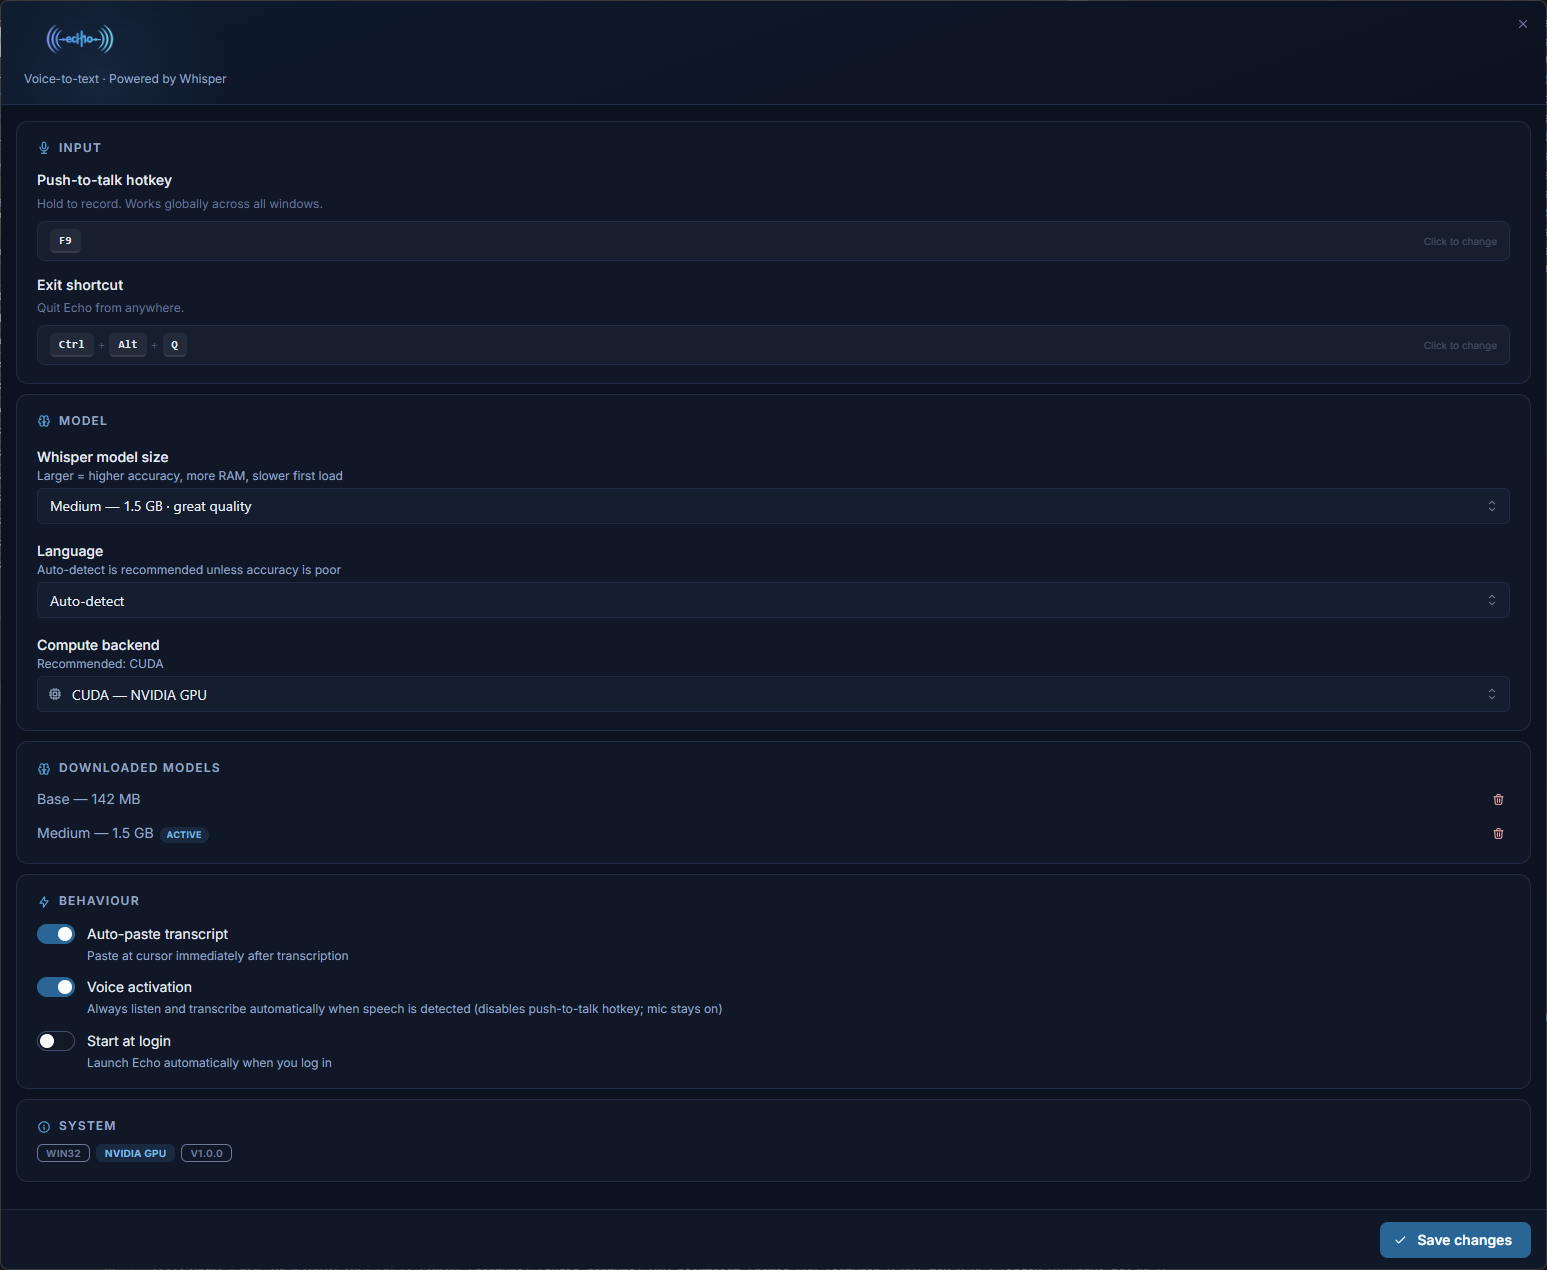
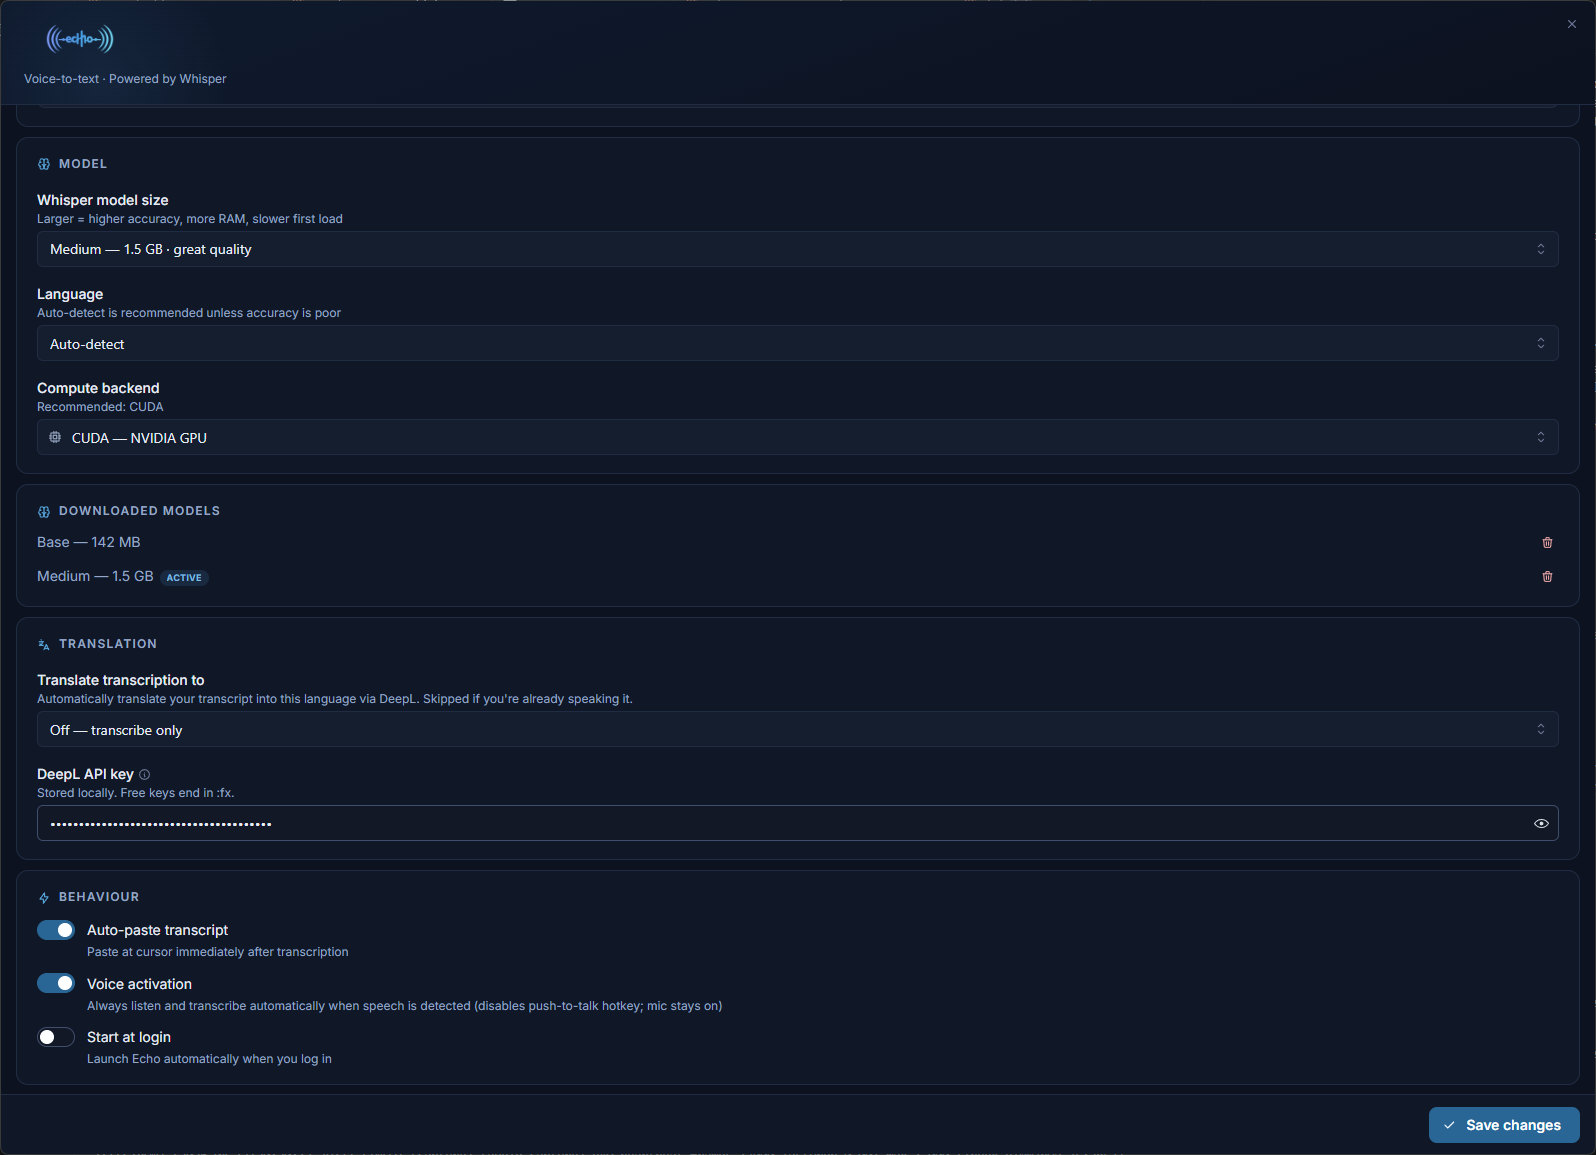
Add DeepL auto-translation and fix indicator z-order drift (v1.2.0)
Transcripts can now be auto-translated to a chosen target language via
DeepL. Whisper returns the detected source language (via verbose_json),
and the pipeline skips the API call entirely when the user is already
speaking the target — keeping free-tier character usage minimal. On any
DeepL failure (network, bad key, quota) the original transcript is
pasted so the user never loses their words. Settings grows a Translation
card with a target-language select, a password input for the key, a
cloud-usage warning banner, and a HoverCard info tooltip linking to the
DeepL API key page.

Also fixes a Windows-only bug where the recording indicator would
occasionally only appear on the desktop instead of above other apps:
the screen-saver-level z-order drifts after focus switches or hide/show
cycles, so we now re-assert alwaysOnTop + moveTop on every show().

diff --git a/electron/src/renderer/settings/App.tsx b/electron/src/renderer/settings/App.tsx
@@ -2,11 +2,13 @@ import React, { useEffect, useRef, useState } from "react";
 import {
   Stack, Group, Text, Button, Select, Switch,
   Badge, Loader, Alert, Box, ScrollArea, ActionIcon,
+  PasswordInput, HoverCard, Anchor,
 } from "@mantine/core";
 import {
   IconAlertCircle, IconCheck, IconRefresh,
   IconMicrophone, IconCpu, IconBrain,
   IconBolt, IconInfoCircle, IconX, IconTrash,
+  IconLanguage, IconCloudUpload,
 } from "@tabler/icons-react";
 import type { Config, SystemInfo } from "@shared/types";
 import { SectionLabel } from "./components/SectionLabel";
@@ -340,6 +342,114 @@ export function App() {
               </Stack>
             </Card>
           )}
+
+          {/* Translation */}
+          <Card delay={110}>
+            <Stack gap={14}>
+              <Group gap={8}>
+                <IconLanguage size={14} color="var(--accent)" />
+                <SectionLabel>Translation</SectionLabel>
+              </Group>
+              <Select
+                label="Translate transcription to"
+                description="Automatically translate your transcript into this language via DeepL. Skipped if you're already speaking it."
+                value={config.translateTo ?? "off"}
+                onChange={(v) => patch("translateTo", v === "off" || !v ? null : v)}
+                data={[
+                  { value: "off", label: "Off — transcribe only" },
+                  { value: "EN", label: "English" },
+                  { value: "DE", label: "German" },
+                  { value: "FR", label: "French" },
+                  { value: "ES", label: "Spanish" },
+                  { value: "IT", label: "Italian" },
+                  { value: "PT", label: "Portuguese" },
+                  { value: "NL", label: "Dutch" },
+                  { value: "PL", label: "Polish" },
+                  { value: "RU", label: "Russian" },
+                  { value: "UK", label: "Ukrainian" },
+                  { value: "ZH", label: "Chinese" },
+                  { value: "JA", label: "Japanese" },
+                  { value: "KO", label: "Korean" },
+                  { value: "TR", label: "Turkish" },
+                  { value: "SV", label: "Swedish" },
+                  { value: "DA", label: "Danish" },
+                  { value: "FI", label: "Finnish" },
+                  { value: "NB", label: "Norwegian" },
+                  { value: "CS", label: "Czech" },
+                  { value: "EL", label: "Greek" },
+                  { value: "HU", label: "Hungarian" },
+                  { value: "RO", label: "Romanian" },
+                  { value: "BG", label: "Bulgarian" },
+                  { value: "SK", label: "Slovak" },
+                  { value: "SL", label: "Slovenian" },
+                  { value: "LT", label: "Lithuanian" },
+                  { value: "LV", label: "Latvian" },
+                  { value: "ET", label: "Estonian" },
+                  { value: "ID", label: "Indonesian" },
+                ]}
+              />
+
+              {config.translateTo && (
+                <Alert
+                  icon={<IconCloudUpload size={14} />}
+                  color="yellow"
+                  variant="light"
+                  radius="md"
+                  p="xs"
+                >
+                  <Text size="xs">
+                    Translation mode sends your transcript to DeepL's servers. Your audio stays
+                    local — only the text leaves your machine, and only when the detected
+                    language differs from the target.
+                  </Text>
+                </Alert>
+              )}
+
+              <PasswordInput
+                label={
+                  <Group gap={4} wrap="nowrap">
+                    <Text size="sm" fw={500}>DeepL API key</Text>
+                    <HoverCard width={300} shadow="md" withArrow openDelay={100} closeDelay={200}>
+                      <HoverCard.Target>
+                        <IconInfoCircle size={13} style={{ cursor: "help", color: "var(--muted)" }} />
+                      </HoverCard.Target>
+                      <HoverCard.Dropdown>
+                        <Text size="xs">
+                          Create a free DeepL account, then copy your API key from the
+                          "Account" tab. Free keys end in <code>:fx</code> and include
+                          500,000 characters/month.
+                        </Text>
+                        <Anchor
+                          href="https://www.deepl.com/your-account/keys"
+                          target="_blank"
+                          rel="noopener noreferrer"
+                          size="xs"
+                          c="echo.4"
+                          mt={6}
+                          style={{ display: "inline-block" }}
+                        >
+                          Open DeepL API keys page →
+                        </Anchor>
+                      </HoverCard.Dropdown>
+                    </HoverCard>
+                  </Group>
+                }
+                description={
+                  config.translateTo && !config.deeplApiKey.trim()
+                    ? "Required to enable translation."
+                    : "Stored locally. Free keys end in :fx."
+                }
+                placeholder="xxxxxxxx-xxxx-xxxx-xxxx-xxxxxxxxxxxx:fx"
+                value={config.deeplApiKey}
+                onChange={(e) => patch("deeplApiKey", e.currentTarget.value)}
+                error={
+                  config.translateTo && !config.deeplApiKey.trim()
+                    ? "API key required for translation"
+                    : undefined
+                }
+              />
+            </Stack>
+          </Card>
 
           {/* Behaviour */}
           <Card delay={120}>

diff --git a/electron/src/main/deepl.ts b/electron/src/main/deepl.ts
@@ -1,0 +1,68 @@
+import { log } from "./logger";
+
+// DeepL target language codes. Most are ISO 639-1; a few are regional variants
+// (e.g. EN-US, PT-BR). For auto-translation we only need the "base" target,
+// but the UI can expose regional variants too if we want them later.
+export const DEEPL_TARGETS = [
+  "BG", "CS", "DA", "DE", "EL", "EN", "ES", "ET", "FI", "FR", "HU", "ID", "IT",
+  "JA", "KO", "LT", "LV", "NB", "NL", "PL", "PT", "RO", "RU", "SK", "SL", "SV",
+  "TR", "UK", "ZH",
+] as const;
+
+export type DeepLTarget = (typeof DEEPL_TARGETS)[number];
+
+interface DeepLResponse {
+  translations: Array<{
+    detected_source_language: string;
+    text: string;
+  }>;
+}
+
+/**
+ * Translates `text` via DeepL. Returns the original text on any failure so the
+ * paste pipeline never loses the user's words.
+ * Keys ending in ":fx" hit the free endpoint; everything else hits pro.
+ */
+export async function translateViaDeepL(
+  text: string,
+  target: string,
+  apiKey: string,
+): Promise<string> {
+  if (!text.trim() || !apiKey.trim()) return text;
+
+  const isFree = apiKey.trim().endsWith(":fx");
+  const host = isFree ? "https://api-free.deepl.com" : "https://api.deepl.com";
+  const url = `${host}/v2/translate`;
+
+  try {
+    const body = new URLSearchParams();
+    body.append("text", text);
+    body.append("target_lang", target.toUpperCase());
+
+    const res = await fetch(url, {
+      method: "POST",
+      headers: {
+        "Authorization": `DeepL-Auth-Key ${apiKey.trim()}`,
+        "Content-Type": "application/x-www-form-urlencoded",
+      },
+      body: body.toString(),
+    });
+
+    if (!res.ok) {
+      const detail = await res.text().catch(() => "");
+      log.error(`DeepL HTTP ${res.status}: ${detail.slice(0, 200)}`);
+      return text;
+    }
+
+    const json = (await res.json()) as DeepLResponse;
+    const out = json.translations?.[0]?.text;
+    if (!out) {
+      log.error("DeepL returned empty translations array");
+      return text;
+    }
+    return out;
+  } catch (err) {
+    log.error(`DeepL request failed: ${err}`);
+    return text;
+  }
+}

diff --git a/electron/src/main/whisper-server.ts b/electron/src/main/whisper-server.ts
@@ -9,6 +9,12 @@ export interface WhisperServerOptions {
   language: string | null;
 }
 
+export interface TranscribeResult {
+  text: string;
+  /** Detected source language as an ISO 639-1 code ("en", "de", …), or null. */
+  language: string | null;
+}
+
 export class WhisperServer {
   private proc: ChildProcess | null = null;
   private port = 0;
@@ -70,13 +76,15 @@ export class WhisperServer {
     throw new Error("whisper-server failed to become ready within 60s");
   }
 
-  async transcribe(wavBuffer: Buffer, language: string | null): Promise<string> {
+  async transcribe(wavBuffer: Buffer, language: string | null): Promise<TranscribeResult> {
     if (!this.proc) throw new Error("whisper-server not running");
 
     const form = new FormData();
     const ab = wavBuffer.buffer.slice(wavBuffer.byteOffset, wavBuffer.byteOffset + wavBuffer.byteLength) as ArrayBuffer;
     form.append("file", new Blob([ab], { type: "audio/wav" }), "audio.wav");
-    form.append("response_format", "json");
+    // verbose_json gives us the detected language alongside the text so we can
+    // decide whether a DeepL translation is needed.
+    form.append("response_format", "verbose_json");
     form.append("temperature", "0.0");
     if (language) form.append("language", language);
 
@@ -89,8 +97,11 @@ export class WhisperServer {
       throw new Error(`whisper-server HTTP ${res.status}: ${body}`);
     }
 
-    const json = (await res.json()) as { text?: string };
-    return (json.text ?? "").trim();
+    const json = (await res.json()) as { text?: string; language?: string };
+    return {
+      text: (json.text ?? "").trim(),
+      language: json.language ?? null,
+    };
   }
 
   stop(): void {

diff --git a/electron/src/main/transcriber.ts b/electron/src/main/transcriber.ts
@@ -5,6 +5,7 @@ import { SystemInfo } from "../shared/types";
 import { log } from "./logger";
 import { getModelPath, getWhisperCppDir } from "./model-downloader";
 import { WhisperServer } from "./whisper-server";
+import { translateViaDeepL } from "./deepl";
 
 type DoneCallback = (text: string) => void;
 
@@ -51,11 +52,29 @@ export class Transcriber {
     this.busy = true;
     try {
       const wav = wrapPcmAsWav(pcmBuffer);
-      const text = await this.server!.transcribe(wav, this.config.get().language);
-      this.onDone(text);
+      const { text, language } = await this.server!.transcribe(wav, this.config.get().language);
+
+      const final = await this.maybeTranslate(text, language);
+      this.onDone(final);
     } finally {
       this.busy = false;
     }
+  }
+
+  private async maybeTranslate(text: string, detectedLang: string | null): Promise<string> {
+    if (!text.trim()) return text;
+
+    const cfg = this.config.get();
+    const target = cfg.translateTo;
+    if (!target) return text;                         // translation disabled
+    if (!cfg.deeplApiKey.trim()) return text;         // no key configured — skip silently
+    if (detectedLang && detectedLang.toLowerCase() === target.toLowerCase()) {
+      log.info(`Translation skipped — already in target (${target})`);
+      return text;
+    }
+
+    log.info(`Translating via DeepL: ${detectedLang ?? "?"} → ${target}`);
+    return translateViaDeepL(text, target, cfg.deeplApiKey);
   }
 
   destroy(): void {

diff --git a/electron/src/main/windows.ts b/electron/src/main/windows.ts
@@ -148,6 +148,23 @@ export class WindowManager {
     }
 
     win.webContents.send("indicator:state", state);
-    if (!win.isVisible()) win.show();
+    if (!win.isVisible()) {
+      win.show();
+      this.reassertAlwaysOnTop(win);
+    }
+  }
+
+  // On Windows, a BrowserWindow's screen-saver-level z-order can drift after
+  // focus switches or hide/show cycles, which causes the indicator to fall
+  // behind other app windows (it ends up "only visible on the desktop"). We
+  // re-apply the level and force it to the top on every show() to pin it.
+  private reassertAlwaysOnTop(win: BrowserWindow): void {
+    try {
+      win.setAlwaysOnTop(false);
+      win.setAlwaysOnTop(true, "screen-saver");
+      win.moveTop();
+    } catch {
+      // non-fatal — indicator will self-correct on next show
+    }
   }
 }

diff --git a/electron/src/shared/types.ts b/electron/src/shared/types.ts
@@ -11,6 +11,10 @@ export interface Config {
   autoPaste: boolean;
   autostart: boolean;
   voiceActivation: boolean;
+  /** ISO language code to auto-translate the transcript into, via DeepL. null = disabled. */
+  translateTo: string | null;
+  /** DeepL API key. Keys ending in ":fx" use the free endpoint; others use pro. */
+  deeplApiKey: string;
   indicatorHideDelayMs: number;
 }
 
@@ -23,6 +27,8 @@ export const DEFAULT_CONFIG: Config = {
   autoPaste: true,
   autostart: false,
   voiceActivation: false,
+  translateTo: null,
+  deeplApiKey: "",
   indicatorHideDelayMs: 1200,
 };
 

diff --git a/electron/src/main/config.ts b/electron/src/main/config.ts
@@ -22,6 +22,8 @@ export class ConfigStore {
       autoPaste: this.store.get("autoPaste"),
       autostart: this.store.get("autostart"),
       voiceActivation: this.store.get("voiceActivation"),
+      translateTo: this.store.get("translateTo"),
+      deeplApiKey: this.store.get("deeplApiKey"),
       indicatorHideDelayMs: this.store.get("indicatorHideDelayMs"),
     };
   }

diff --git a/README.md b/README.md
@@ -23,7 +23,8 @@
 
 - **Global push-to-talk** — press a hotkey anywhere (default `F9`), speak, release. Transcript is pasted at your cursor.
 - **Voice activation (optional)** — hands-free mode powered by [Silero VAD](https://github.com/snakers4/silero-vad). Flip it on in Settings and Echo auto-transcribes each utterance as you speak. Ignores non-speech noise.
-- **Fully local** — all transcription runs on-device via [whisper.cpp](https://github.com/ggml-org/whisper.cpp). Nothing leaves your machine.
+- **Fully local transcription** — all audio and transcription stays on-device via [whisper.cpp](https://github.com/ggml-org/whisper.cpp). Your voice never leaves your machine.
+- **Automatic translation (optional)** — point Echo at a target language and it will translate each transcript via [DeepL](https://www.deepl.com/) before pasting. Skipped automatically when you're already speaking the target language. Audio still stays local; only the transcript text is sent.
 - **Low-latency transcription** — Whisper runs as a persistent `whisper-server` process with the model kept resident in memory, so every utterance skips cold-load overhead.
 - **GPU acceleration** — CUDA on Windows (NVIDIA), Metal on Apple Silicon, CPU fallback everywhere.
 - **Five model sizes** — from 75 MB (`tiny`) to 1.6 GB (`large-v3-turbo`). Pick the accuracy/speed tradeoff you want.
@@ -74,6 +75,8 @@ Open settings from the tray icon. Everything is persisted to `electron-store` in
 | Compute backend | Auto | `CPU` / `CUDA` / `MLX` — auto-selected based on hardware |
 | Auto-paste | On | Off = copy to clipboard only |
 | Voice activation | Off | Always-listening mode using Silero VAD (disables the hotkey) |
+| Translate transcription to | Off | Target language for automatic DeepL translation; skipped when you already speak it |
+| DeepL API key | — | Required only when a translation target is set. Free keys end in `:fx` and include 500k chars/month |
 | Start at login | Off | |
 
 ## Build from source
@@ -104,6 +107,7 @@ Releases are automated — pushing a `v*` tag (e.g. `v1.2.0`) triggers the [rele
 - **[Mantine v7](https://mantine.dev/) + [Tailwind](https://tailwindcss.com/)** — UI
 - **[whisper.cpp](https://github.com/ggml-org/whisper.cpp)** — transcription engine, run as a long-lived `whisper-server` subprocess with the model kept resident in RAM
 - **[Silero VAD](https://github.com/snakers4/silero-vad)** via [@ricky0123/vad-web](https://github.com/ricky0123/vad) — neural voice activity detection for the voice-activation mode
+- **[DeepL API](https://www.deepl.com/pro-api)** — optional cloud translation layer between Whisper and paste
 - **[koffi](https://koffi.dev/)** — FFI for global key polling on Windows
 - **[@nut-tree-fork/nut-js](https://github.com/nut-tree/nut.js)** — keyboard simulation for auto-paste
 - **[electron-store](https://github.com/sindresorhus/electron-store)** — config persistence
